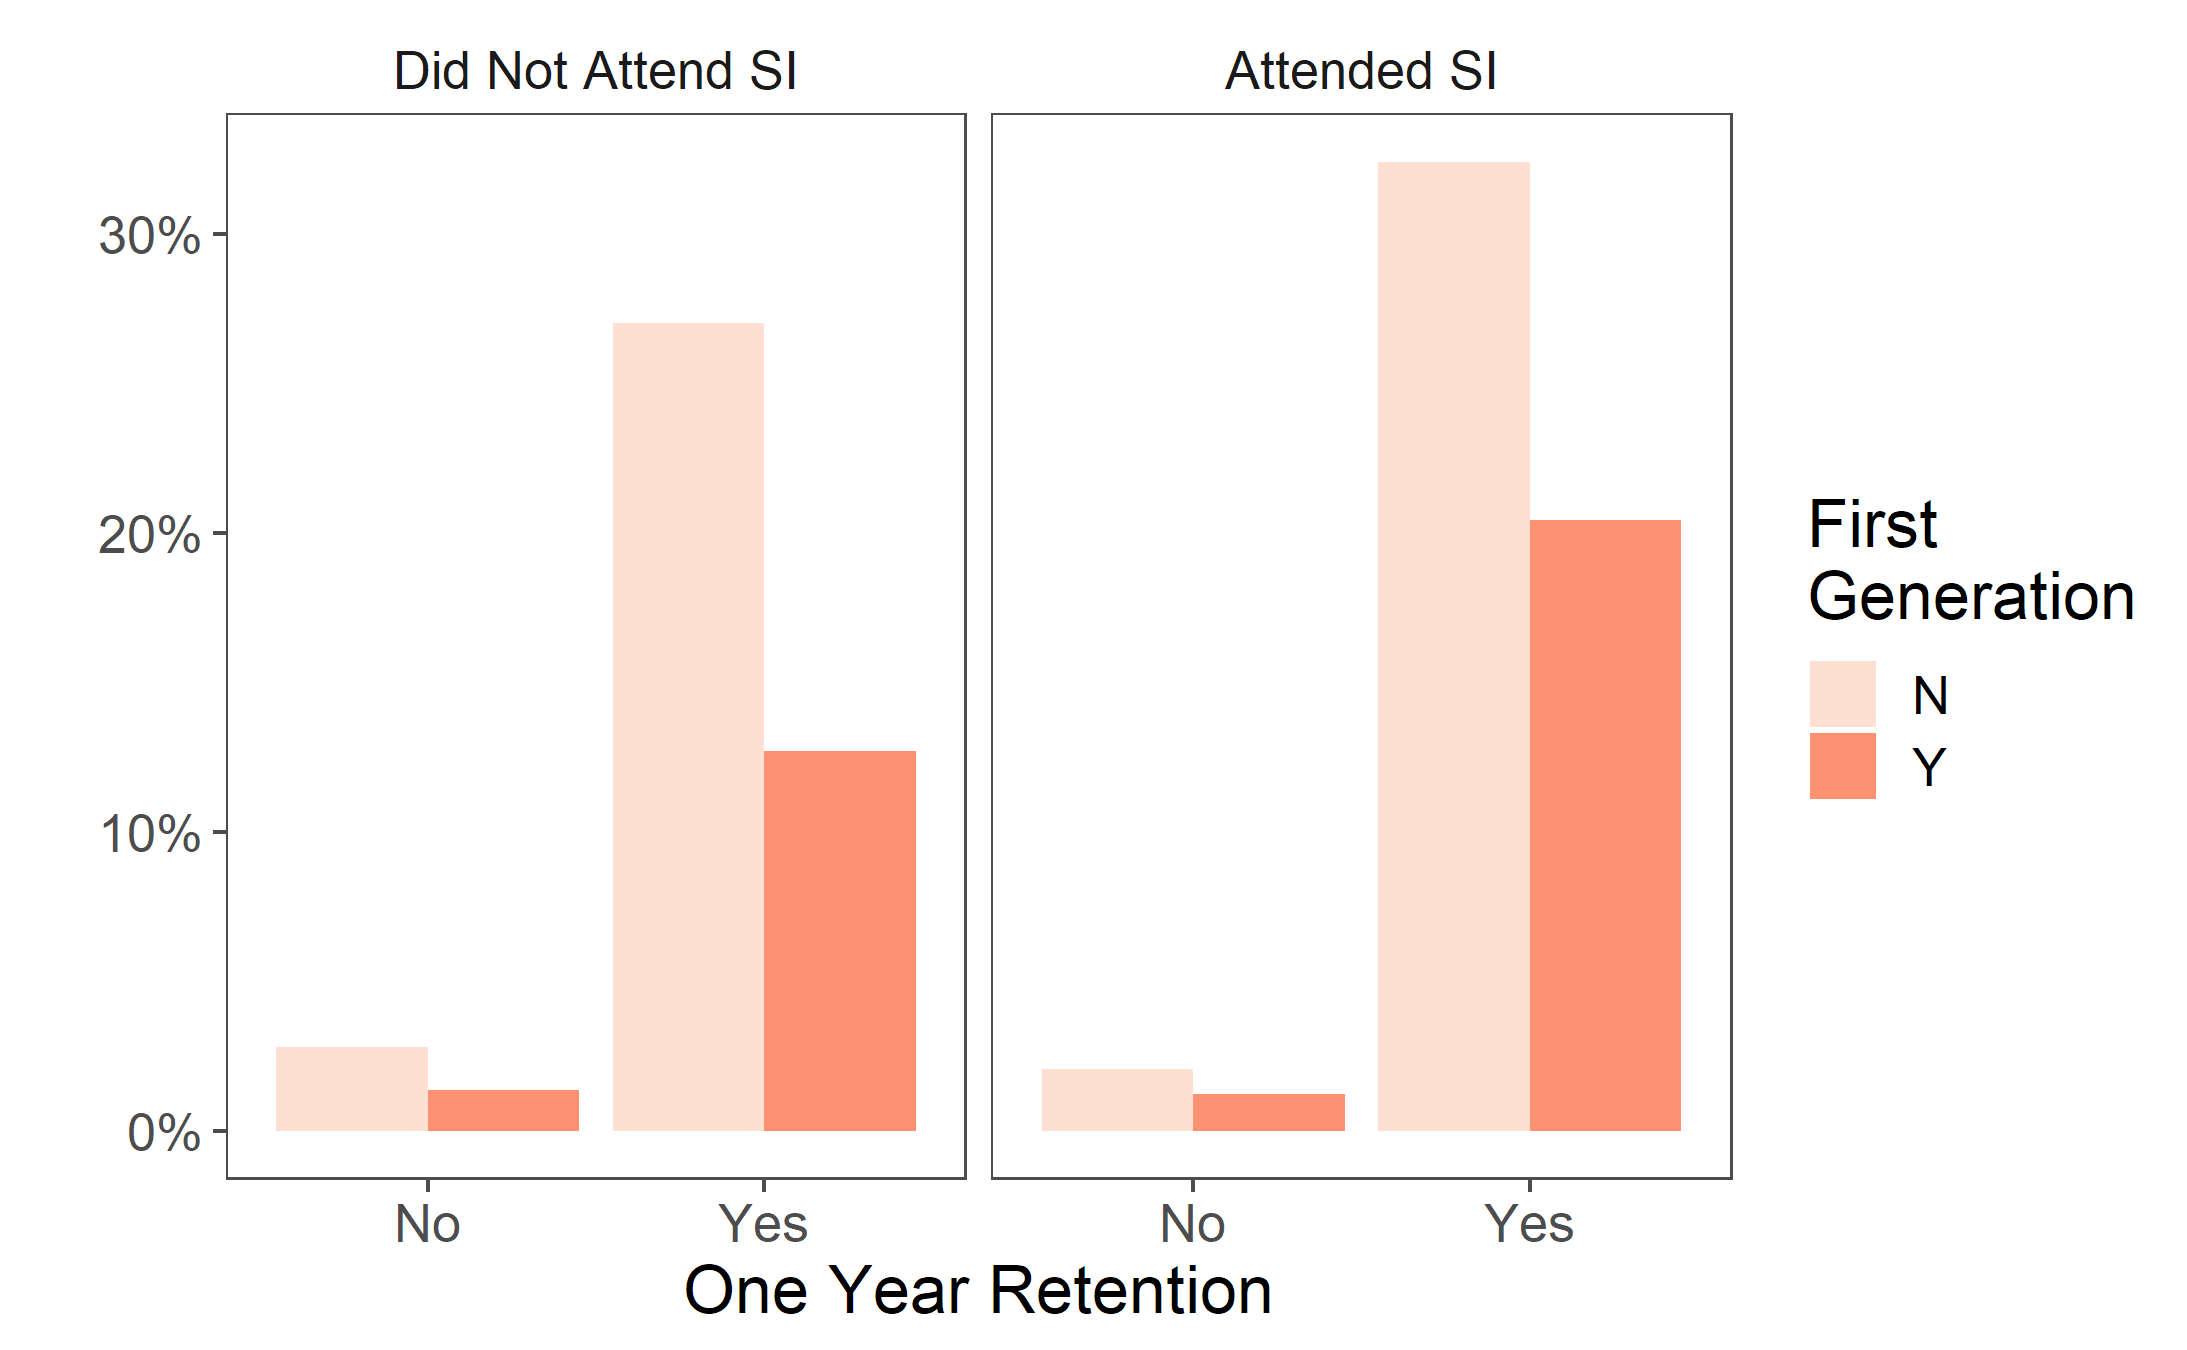
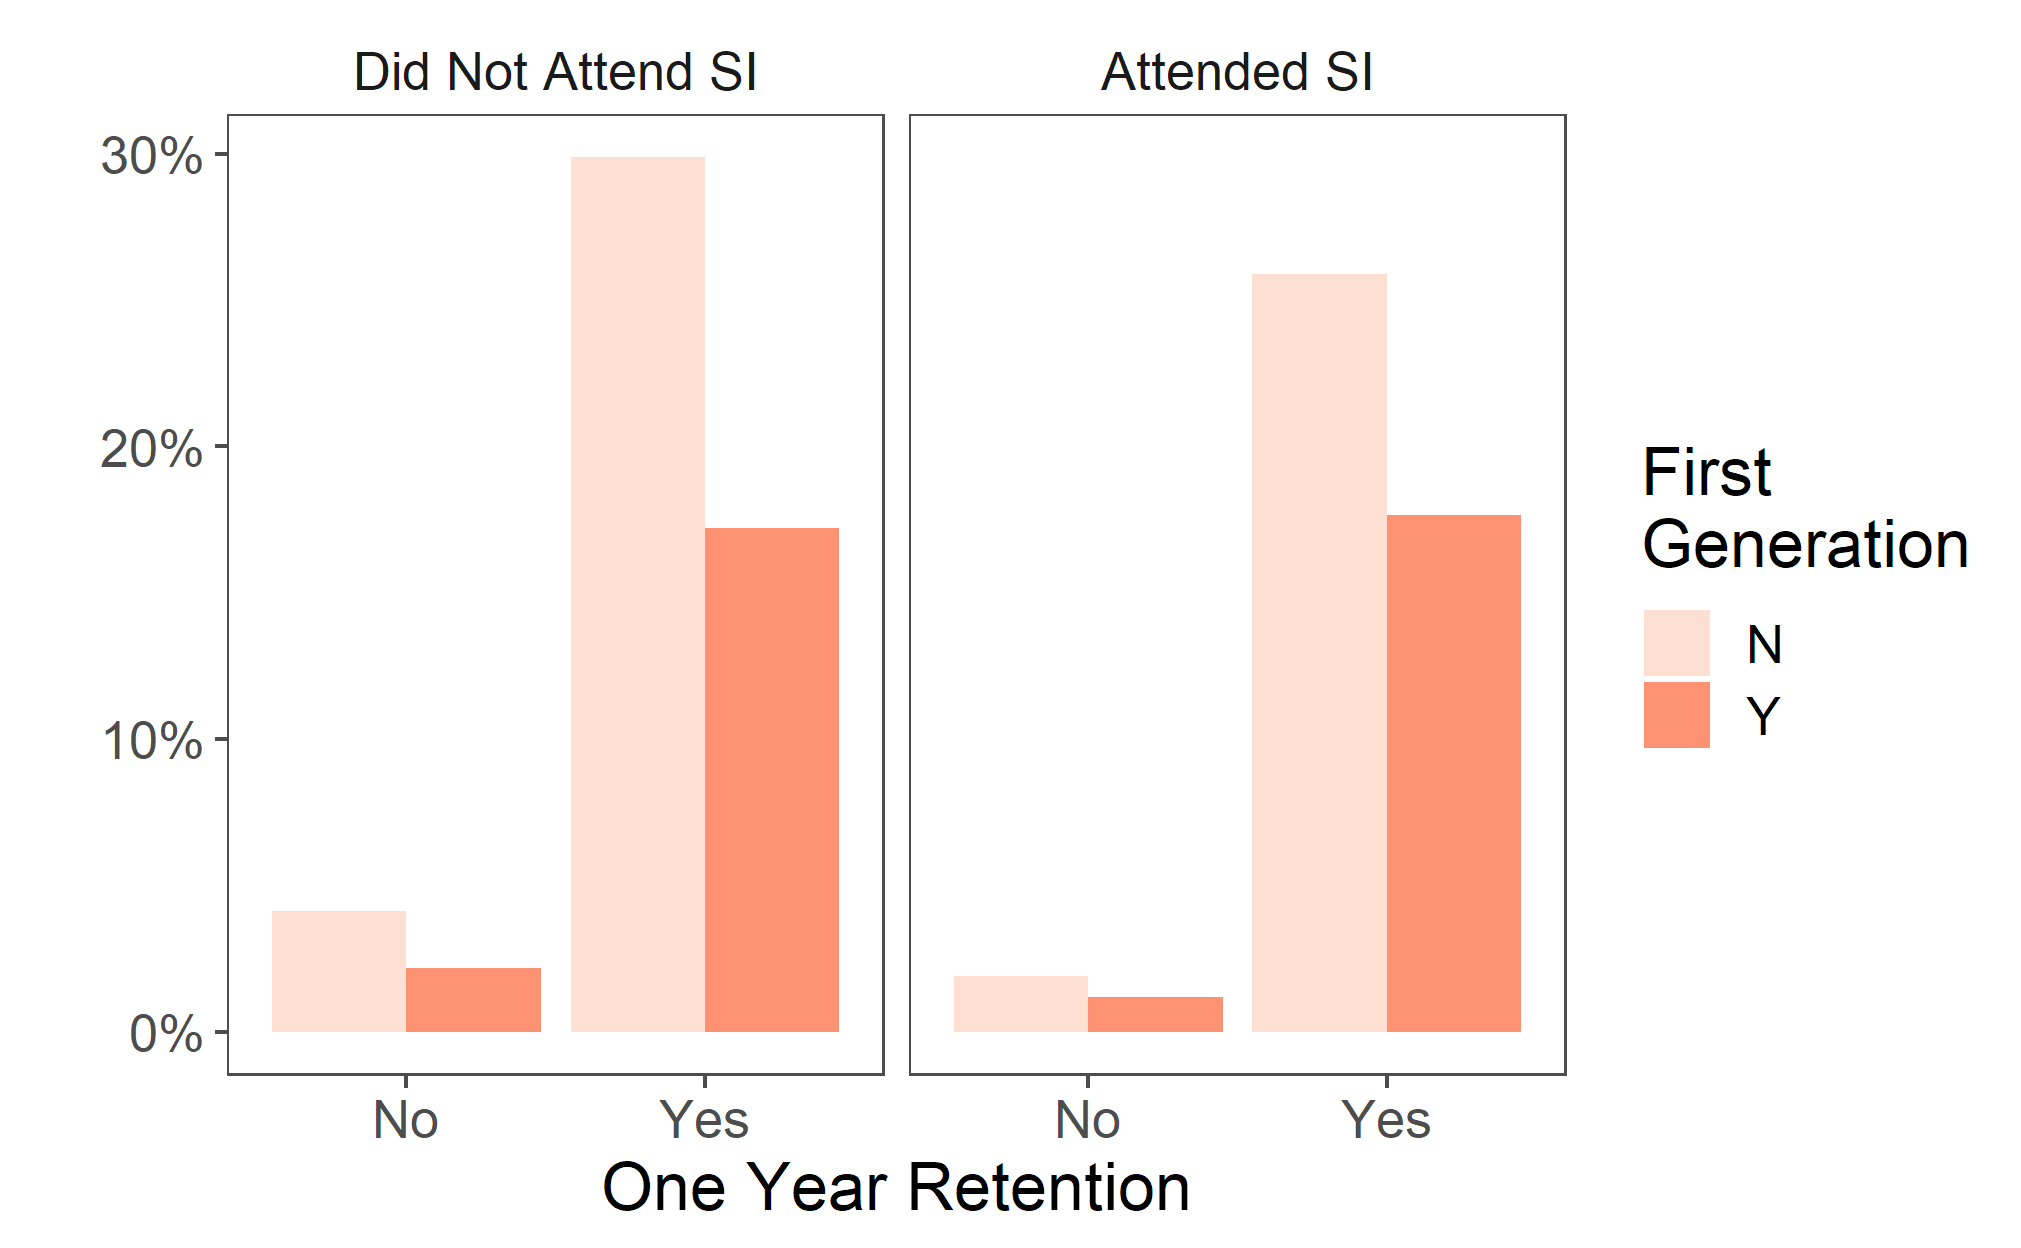
edits to poster with new data

diff --git a/poster/poster-html.html b/poster/poster-html.html
@@ -21,9 +21,7 @@ Google fonts api stuff
 
 <title>Exploring the Effect of Supplemental Instruction on Equity Gaps</title>
 
-<script src="poster-html_files/header-attrs-2.11/header-attrs.js"></script>
 
-<script src="poster-html_files/accessible-code-block-0.0.1/empty-anchor.js"></script>
 
 
 
@@ -421,7 +419,7 @@ Mean Percentage of URM
 </div>
 <div id="does-si-have-an-impact-on-student-one-year-retention" class="section level1">
 <h1>Does SI Have an Impact on Student One Year Retention?</h1>
-<p><img src="pictures/fig5.png" width="1094" style="display: block; margin: auto;" /><img src="pictures/fig6.png" width="1094" style="display: block; margin: auto;" /></p>
+<p><img src="pictures/fig5.png" width="1010" style="display: block; margin: auto;" /><img src="pictures/fig6.png" width="1010" style="display: block; margin: auto;" /></p>
 <p><em>Figures 3 &amp; 4</em> present the results from a model predicting one year retention. The results we present only show primary variables of interest, but many covariates were included to account for additional factors that may influence the outcome variable, such as academic level and year. A logistic model was used to model one year retention. This model was chosen since the one year retention flag is binary. The dashed line marks zero. The horizontal gray lines show the confidence intervals for the main estimates we are interested in.</p>
 <p><strong>SI and Equity Results</strong>: The coefficients of the variables for whether a student attend SI or a student is first generation are not statistically significant. The coefficient of the variables for whether a student is a member of an under-represented minority is statistically significant (<em>p&lt;0.05</em>), but this variable was not expected to be positive, given the historical context. This may be due to omitted variable bias.</p>
 <p><strong>Interactions SI and Equity Results</strong>: In order to model the potential influence SI has on different groups, we included interaction terms. The results from the previous model hold. In addition, the coefficient of the variable for if a student attended SI and is a member of a URM is not statically significant. However, the coefficient of the variable for if a student attends SI and is a first generation student is statistically significant (<em>p&lt;0.05</em>) and positive.</p>
